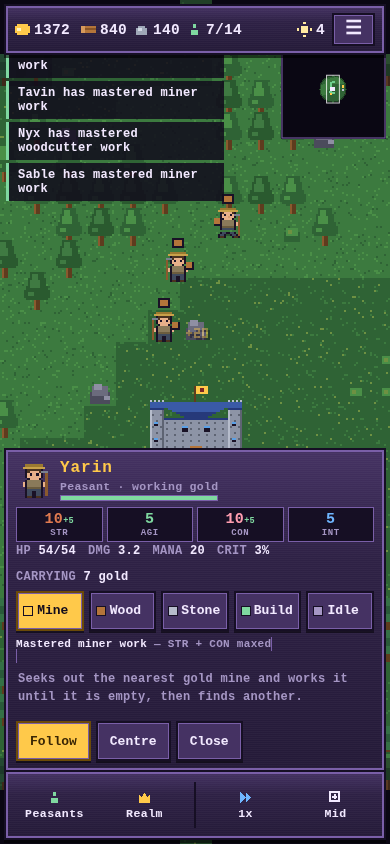
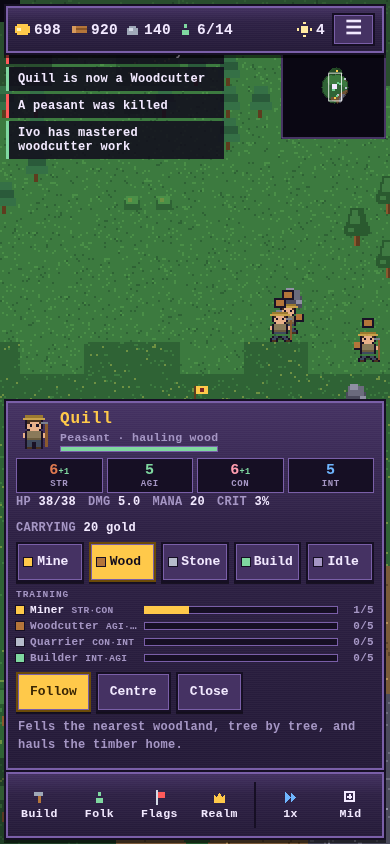
Add a barracks, bring flags back, and let villagers fight back
Four things, all asked for.

A clicked villager now shows every calling's training track at once -- mastered,
part-done, and never started -- rather than only the one they are currently on,
so you can see at a glance what a given peasant has actually become.

The Barracks is back on the build menu and trains Warriors, who behave the way
heroes always did here: they roam, explore the dark and pick their own fights,
and the only way to steer them is the reward flags, which are also restored.
Attack, explore, defend and fear all work against warriors again, with bounties
held in escrow until somebody earns them. Verified end to end: build barracks,
train warriors, flag a lair, and the lair falls with the bounty paid out and
escrow released.

Peasants defend themselves now. They still run from a monster they merely see,
but something already biting them gets hit back, and they break off once below
a third of their health. Their damage went from 3 to 5 so a lone villager can
actually see off a rat; anything bigger still needs a warrior.

Two bugs found while building this, both mine:

Peasants with a gathering calling could never build anything. The calling's own
search for the next seam ran first and overwrote the build order every tick, so
construction orders were silently discarded -- which is why the barracks in my
first test sat unfinished. An explicit construction order now outranks the
standing calling.
[…]

diff --git a/src/ui.js b/src/ui.js
@@ -50,17 +50,30 @@ function attrBlock(u) {
   }).join('') + `</div>`;
 }
 
-/** Progress toward the attribute points the current calling can teach. */
+/** How far along a unit is in one calling's attribute track. */
+function trainProgress(u, id) {
+  const m = MISSIONS[id];
+  const done = Math.min(1, (u.training[id] || 0) / m.trainFull);
+  return { m, done, points: Math.floor(done * TRAIN_MAX) };
+}
+
+/**
+ * Every calling this unit could learn, so you can see at a glance what is
+ * mastered, what is part-done, and what they have never touched.
+ */
 function trainBlock(u) {
-  const m = MISSIONS[u.mission];
-  if (!m || !m.trains) return '';
-  const done = Math.min(1, (u.training[u.mission] || 0) / m.trainFull);
-  const points = Math.floor(done * TRAIN_MAX);
-  const names = m.trains.map(k => STATS[k].short).join(' + ');
-  return `<div class="train" data-live="train">
-    ${done >= 1 ? `<b>Mastered ${m.name.toLowerCase()} work</b> &mdash; ${names} maxed`
-      : `Learning <b>${names}</b> &mdash; ${points}/${TRAIN_MAX} earned`}
-    <span class="bar"><i style="width:${done * 100}%"></i></span></div>`;
+  const rows = MISSION_ORDER.filter(id => MISSIONS[id].trains);
+  return `<div class="trainlist" data-live="train">
+    <div class="head">TRAINING</div>` + rows.map(id => {
+    const { m, done, points } = trainProgress(u, id);
+    const cls = done >= 1 ? 'done' : done <= 0 ? 'none' : '';
+    return `<div class="trow ${cls}" data-trow="${id}">
+      <span class="sw" style="background:${m.colour}"></span>
+      <span class="tn">${m.name} <i>${m.trains.map(k => STATS[k].short).join('&middot;')}</i></span>
+      <span class="tbar" style="--tc:${m.colour}"><i style="width:${done * 100}%"></i></span>
+      <span class="tp">${points}/${TRAIN_MAX}</span>
+    </div>`;
+  }).join('') + `</div>`;
 }
 
 /** The row of calling buttons shown wherever peasants are selected. */
@@ -470,6 +483,10 @@ export class UI {
   }
 
   unitJobText(u) {
+    // what is on their back beats what they are heading toward
+    if (u.state === 'deliver' && u.carry > 0 && u.carryRes) return `hauling ${u.carryRes}`;
+    if (u.state === 'defend') return 'fighting back';
+    if (u.job && u.job.type === 'build') return 'building';
     if (u.job && u.job.type === 'harvest' && u.job.node) {
       const k = u.job.node.kind;
       return `${u.state === 'deliver' ? 'hauling' : 'working'} ${k === 'goldmine' ? 'gold' : k === 'quarry' ? 'stone' : 'wood'}`;
@@ -539,11 +556,13 @@ export class UI {
       }
       const train = el.querySelector('[data-live="train"]');
       if (train) {
-        const m = MISSIONS[u.mission];
-        if (m && m.trains) {
-          const done = Math.min(1, (u.training[u.mission] || 0) / m.trainFull);
-          const bar = train.querySelector('.bar i');
+        for (const row of train.querySelectorAll('[data-trow]')) {
+          const { done, points } = trainProgress(u, row.dataset.trow);
+          const bar = row.querySelector('.tbar i');
           if (bar) bar.style.width = done * 100 + '%';
+          const pts = row.querySelector('.tp');
+          if (pts) pts.textContent = `${points}/${TRAIN_MAX}`;
+          row.className = 'trow ' + (done >= 1 ? 'done' : done <= 0 ? 'none' : '');
         }
       }
       const stats = el.querySelector('[data-live="stats"]');
@@ -1149,8 +1168,12 @@ export class UI {
       <p><b>What the attributes do.</b> Strength adds melee damage, agility attack speed,
       constitution health, and intelligence both mana and critical chance &mdash; all in
       steps of five points.</p>
-      <p><b>Careful where you send them.</b> Monsters still prowl near their lairs, and a peasant
-      is no fighter. They will run, but not always fast enough.</p>
+      <p><b>Warriors.</b> Build a <b>Barracks</b> and train some. They take no orders at all &mdash;
+      they roam, explore and pick their own fights. To steer them, raise a <b>flag</b> and put
+      gold on it; the gold waits in escrow until somebody earns it.</p>
+      <p><b>Peasants are not helpless.</b> They run from a monster they can see, but anything
+      already biting them gets hit back &mdash; until they are badly hurt, at which point they
+      sensibly leave.</p>
       <p><b>Camera.</b> Drag to pan, pinch to zoom, or tap <b>Zoom</b> for Close / Mid / Far / Wide.
       Tap the corner map to open the full realm and jump anywhere. Select a unit and hit
       <b>Follow</b> to have the camera track it.</p>

diff --git a/src/brains.js b/src/brains.js
@@ -39,31 +39,52 @@ function walkTo(u, g, o) {
 export function peasantBrain(u, since) {
   const g = u.game;
 
-  // 1. self-preservation outranks any calling
-  const foe = g.nearestEnemy(u.x, u.y, 58, 'realm');
+  // 1. danger. A peasant will run from something it merely sees, but if the
+  //    thing is already biting them, running just means dying tired.
+  const foe = g.nearestEnemy(u.x, u.y, 64, 'realm');
   if (foe) {
+    const underAttack = g.time - (u.lastHit || -99) < 3;
+    const cornered = u.distTo(foe) <= u.def.range + 8;
+    const badlyHurt = u.hp < u.maxHpNow * 0.35;
+
+    if ((underAttack || cornered) && !badlyHurt) {
+      u.fleeing = 0;
+      u.state = 'defend';
+      u.engage(u.lastAttacker && !u.lastAttacker.dead && u.distTo(u.lastAttacker) < 80
+        ? u.lastAttacker : foe);
+      u.fight(since);
+      return;
+    }
     u.fleeing = 2.6;
     u.state = 'flee';
+    u.target = null;
     const safe = g.nearestBuilding(u.x, u.y, b => b.complete) || g.palace;
     if (safe && !touching(u, safe, 2)) walkTo(u, g, safe);
     return;
   }
   if (u.fleeing > 0) return;
+  u.target = null;
 
   const mission = MISSIONS[u.mission] || MISSIONS.none;
 
-  // 2. line up the next seam before anything else, so a peasant hauling a
+  // 2. An explicit construction order outranks the standing calling. Without
+  //    this the calling's own search overwrites the build job every tick and
+  //    nothing ever gets built by anyone who already has a trade.
+  if (u.job && u.job.type === 'build') {
+    if (u.carry > 0) return deliver(u, g);      // drop the load off first
+    return doBuild(u, g, since, u.job.site);
+  }
+
+  // 3. line up the next seam before anything else, so a peasant hauling a
   //    load home already knows where they are going back to
   if (mission.nodes && !findWork(u, g, mission)) return missionStalled(u, g, mission);
 
-  // 3. a full pack goes home first, whatever the mission
+  // 4. a full pack goes home first, whatever the mission
   if (u.carry > 0 && (u.state === 'deliver' || !u.job)) return deliver(u, g);
 
   if (mission.nodes) return doHarvest(u, g, since);
 
-  // 4. builders, and idlers who happen to see something half-finished
-  if (u.job && u.job.type === 'build') return doBuild(u, g, since, u.job.site);
-
+  // 5. builders, and idlers who happen to see something half-finished
   const site = g.nearestBuilding(u.x, u.y, b => !b.complete && b.builders < 4);
   if (site) { u.job = { type: 'build', site }; site.builders++; return; }
 
@@ -155,6 +176,7 @@ function deliver(u, g) {
     u.state = u.job ? 'walk' : 'idle';
     u.path = null;
     if (u.job && u.job.type === 'harvest') walkTo(u, g, u.job.node);
+    else if (u.job && u.job.type === 'build') walkTo(u, g, u.job.site);
   } else {
     walkTo(u, g, depot);
   }

diff --git a/src/data.js b/src/data.js
@@ -123,6 +123,12 @@ export const BUILDINGS = {
     tax: 3, shop: 'rest',
     desc: 'Heroes drink, boast, and heal fast. Idle heroes drift here between jobs.'
   },
+  barracks: {
+    id: 'barracks', name: 'Barracks', fw: 2, fh: 2, hp: 560,
+    cost: { gold: 130, wood: 90, stone: 30 }, build: 14,
+    guild: 'warrior', maxHeroes: 3, sight: 9,
+    desc: 'Trains Warriors. They patrol, explore and answer reward flags -- but they pick their own fights.'
+  },
   warriors_guild: {
     id: 'warriors_guild', name: 'Warriors Guild', fw: 2, fh: 2, hp: 620,
     cost: { gold: 170, wood: 90, stone: 40 }, build: 16, needs: ['palace'],
@@ -166,16 +172,16 @@ export const BUILDINGS = {
  * so it can be switched back on a line at a time as features come back --
  * for now the game is deliberately just a City Centre and its peasants.
  */
-export const BUILD_ORDER = [];
+export const BUILD_ORDER = ['barracks'];
 
 /** The full menu, kept for when the rest of the realm is reinstated. */
 export const BUILD_ORDER_FULL = ['hut', 'lumberyard', 'mining_camp', 'marketplace', 'inn', 'blacksmith',
   'warriors_guild', 'rangers_guild', 'temple', 'wizards_guild', 'guardhouse', 'tower'];
 
 /**
- * With no guilds there are no heroes, and with no heroes a monster raid is
- * just a slow execution. Lairs still breed and their broods still prowl, so
- * where you send a peasant still matters -- they simply do not march on town.
+ * Lairs still breed and their broods still prowl their own ground, but they do
+ * not march on the town yet. Flip this on once the realm can field enough
+ * warriors to meet a raid.
  */
 export const RAIDS_ENABLED = false;
 
@@ -189,7 +195,7 @@ export const RAIDS_ENABLED = false;
  */
 export const CLASSES = {
   peasant: {
-    id: 'peasant', name: 'Peasant', hp: 34, dmg: 3, rate: 1.2, range: 12, speed: 30,
+    id: 'peasant', name: 'Peasant', hp: 34, dmg: 5, rate: 1.1, range: 12, speed: 30,
     sight: 6, cost: { gold: 30 }, greed: 0, courage: 0, wander: 6, pop: 1,
     stats: { str: 5, agi: 5, con: 5, int: 5 },
     desc: 'Digs, chops, builds, repairs, panics. Grows into whatever you make them do.'

diff --git a/styles.css b/styles.css
@@ -192,10 +192,17 @@ canvas{image-rendering:pixelated;image-rendering:crisp-edges}
 .attr span{display:block;font-size:9px;color:var(--txt-dim);letter-spacing:.06em}
 .attr i{font-style:normal;font-size:8.5px;color:var(--good)}
 
-.train{margin:6px 0 2px;font-size:11px;color:var(--txt-dim)}
-.train .bar{display:block;height:7px;background:var(--edge-dk);border:1px solid var(--edge-lt);margin-top:4px}
-.train .bar i{display:block;height:100%;background:var(--gold)}
-.train b{color:var(--txt)}
+.trainlist{margin:7px 0 2px;display:flex;flex-direction:column;gap:4px}
+.trainlist .head{font-size:9.5px;letter-spacing:.1em;color:var(--txt-dim)}
+.trow{display:flex;align-items:center;gap:6px;font-size:11px;color:var(--txt-dim)}
+.trow .sw{width:8px;height:8px;flex:none;box-shadow:0 0 0 1px var(--edge-dk)}
+.trow .tn{flex:none;width:126px;color:var(--txt);white-space:nowrap;overflow:hidden;text-overflow:ellipsis}
+.trow .tn i{font-style:normal;color:var(--txt-dim);font-size:9px;letter-spacing:.02em}
+.trow .tbar{flex:1;display:block;height:8px;background:var(--edge-dk);box-shadow:inset 0 0 0 1px var(--edge-lt)}
+.trow .tbar i{display:block;height:100%;background:var(--tc,#ffc94a)}
+.trow .tp{flex:none;width:30px;text-align:right;font-variant-numeric:tabular-nums}
+.trow.done .tp{color:var(--gold)}
+.trow.none .tn{color:var(--txt-dim)}
 
 /* individual roster */
 .who-row{display:flex;align-items:center;gap:7px;padding:7px 4px;border-bottom:1px solid var(--edge-dk);cursor:pointer}

diff --git a/src/art.js b/src/art.js
@@ -378,6 +378,21 @@ const BUILD_ART = {
     px(ctx, W / 2 - 1, H - 18, 1, 5, PAL.metal);
     banner(ctx, W - 4, H - 25, PAL.roofR);
   },
+  barracks(ctx, W, H) {
+    // timber hall with a weapon rack and a banner
+    wallBlock(ctx, 2, H - 18, W - 4, 18, PAL.wood, PAL.woodD, PAL.woodL);
+    roofGable(ctx, 0, H - 26, W, 9, PAL.roofR, PAL.roofRD);
+    door(ctx, W / 2 - 3, H - 11, 6, 11);
+    window_(ctx, 4, H - 16); window_(ctx, W - 6, H - 16);
+    // crossed spears over the door
+    px(ctx, W / 2 - 5, H - 16, 10, 1, PAL.metal);
+    px(ctx, W / 2 - 1, H - 20, 1, 6, PAL.woodD);
+    px(ctx, W / 2 - 2, H - 21, 3, 2, PAL.metal);
+    // training dummy outside
+    px(ctx, 3, H - 9, 1, 9, PAL.woodD);
+    px(ctx, 1, H - 8, 5, 3, PAL.thatch);
+    banner(ctx, W - 4, H - 26, PAL.roofR);
+  },
   rangers_guild(ctx, W, H) {
     px(ctx, 4, H - 6, 3, 6, PAL.woodD); px(ctx, W - 7, H - 6, 3, 6, PAL.woodD);
     wallBlock(ctx, 2, H - 18, W - 4, 13, PAL.woodL, PAL.woodD, PAL.thatch);

diff --git a/src/main.js b/src/main.js
@@ -56,7 +56,10 @@ async function start() {
       <p><b>1.</b> Tap your <b>City Centre</b> and hire a few peasants.</p>
       <p><b>2.</b> Tap one and choose a calling: <b>Mine</b>, <b>Wood</b>, <b>Stone</b> or <b>Build</b>.
       They will hunt down the nearest seam themselves and keep at it forever.</p>
-      <p><b>3.</b> Use the <b>Peasants</b> tab to move your whole workforce between callings.</p>
+      <p><b>3.</b> Use the <b>Folk</b> tab to move your workforce around, or pick one villager
+      by name. Work trains them: every calling raises two attributes.</p>
+      <p><b>4.</b> <b>Build</b> a Barracks, train a warrior, then raise an attack <b>Flag</b> on a
+      monster lair and watch the greedy fool charge in.</p>
       <p><b>Getting around.</b> One finger pans, two fingers pinch to zoom, and
       <b>Zoom</b> steps through Close / Mid / Far / Wide. Tap the little map in the corner
       to open the whole realm, then tap anywhere on it to jump there.</p>

diff --git a/index.html b/index.html
@@ -46,7 +46,9 @@
 
   <!-- ===== bottom command bar ===== -->
   <div id="cmdbar" class="panel">
-    <button class="cmd" data-tab="peasants"><span class="ico ico-pop"></span><span>Peasants</span></button>
+    <button class="cmd" data-tab="build"><span class="ico ico-hammer"></span><span>Build</span></button>
+    <button class="cmd" data-tab="peasants"><span class="ico ico-pop"></span><span>Folk</span></button>
+    <button class="cmd" data-tab="flags"><span class="ico ico-flag"></span><span>Flags</span></button>
     <button class="cmd" data-tab="kingdom"><span class="ico ico-crown"></span><span>Realm</span></button>
     <div class="cmd-sep"></div>
     <button class="cmd" id="btn-speed"><span class="ico ico-speed"></span><span id="speedlbl">1x</span></button>

diff --git a/src/game.js b/src/game.js
@@ -462,7 +462,8 @@ export class Game {
 
   recruit(building, kind, mission) {
     const cls = CLASSES[kind];
-    if (!cls) return null;
+    if (!cls || !building || building.dead) return null;
+    if (!building.complete) { this.notify(`${building.name} is not finished yet`, 'bad'); return null; }
     if (this.pop + (cls.pop || 0) > this.popCap) { this.notify('Population cap reached — build huts', 'bad'); return null; }
     if (building.def.guild) {
       const alive = this.units.filter(u => !u.dead && u.homeId === building.id).length;

diff --git a/src/entities.js b/src/entities.js
@@ -482,6 +482,8 @@ export class Unit {
   damageTaken(n, src) {
     this.hp -= n;
     this.hitFlash = 0.12;
+    this.lastHit = this.game.time;
+    if (src && src.kindClass === 'unit') this.lastAttacker = src;
     if (this.hp <= 0) { this.hp = 0; this.die(src); }
   }
 

diff --git a/README.md b/README.md
@@ -17,7 +17,9 @@ work themselves.
 - Select any unit and hit **Follow** to lock the camera onto it; drag the map to let go.
 - **Tap your City Centre** → *Hire Peasant*.
 - **Tap a peasant** and pick a calling: **Mine**, **Wood**, **Stone**, **Build** or **Idle**.
-- Or open the **Peasants** tab to move the whole workforce between callings at once.
+- Or open the **Folk** tab to move the workforce around in bulk, or pick one villager
+  by name and give them a calling of their own.
+- **Build** a Barracks, train warriors, then raise a **Flag** to tempt them somewhere.
 
 Keyboard, if you are at a desk: `B` peasants, `K` realm, `P` select peasants,
 `M` full map, `C` follow the selected unit, `space` pause, arrows pan, `+`/`-` zoom,
@@ -73,20 +75,40 @@ to the seam and hauling the load home teach nothing.
 Points earned are permanent and stack across callings, so a peasant who has mastered
 mining and then woodcutting ends up at STR 15. Veterans are worth keeping.
 
+Tap any peasant and their sheet shows all four tracks at once — mastered, part-done,
+and never started — so you can see exactly what a given villager has become.
+
 Every load walks back to the City Centre, so **distance is the whole economy**. Where
 the seams fell on your map decides how rich you are.
 
+## Warriors and flags
+
+Build a **Barracks** and you can train Warriors. Unlike peasants, warriors take no
+orders at all — they patrol, explore the dark, and pick their own fights. The only way
+to steer them is to put money on the map:
+
+- **Attack** — paid when the area is cleared of monsters and lairs.
+- **Explore** — paid on arrival; the fog lifts around it.
+- **Defend** — pays out gradually while a warrior holds the ground.
+- **Fear** — free, and makes them avoid a place entirely.
+
+Gold on a flag sits in escrow (shown in brackets beside your treasury) and is refunded
+in full if you withdraw it.
+
+Peasants are not completely helpless. They will run from a monster they merely see, but
+something already biting them gets hit back — and they break off and flee once badly
+hurt. A lone peasant can see off a rat; anything larger needs a warrior.
+
 ## Current scope
 
-The game is deliberately stripped back to the peasant economy while that loop is built
-out. Only the City Centre exists; the guilds, shops, towers and the heroes who used to
-take reward-flag bounties are switched off — the code is all still there, behind
-`BUILD_ORDER_FULL` and `RAIDS_ENABLED` in `src/data.js`, waiting to come back a piece
-at a time.
+Still deliberately small while the core is built out: City Centre, Barracks, peasants,
+warriors and flags. The shops, towers, huts and the other three hero classes are
+defined but switched off behind `BUILD_ORDER_FULL` in `src/data.js`.
 
-Monster lairs still breed and their broods still prowl their own ground. They will not
-march on your town, but a peasant sent to a seam next to a nest is a peasant you may not
-see again — so **where** you send them matters.
+Monster lairs breed and their broods prowl their own ground, but they do not yet march
+on your town — `RAIDS_ENABLED` in `src/data.js` turns that on once the realm can field
+enough warriors to meet a raid. A peasant sent to a seam next to a nest is still a
+peasant you may not see again, so **where** you send them matters.
 
 ## Running it locally
 
